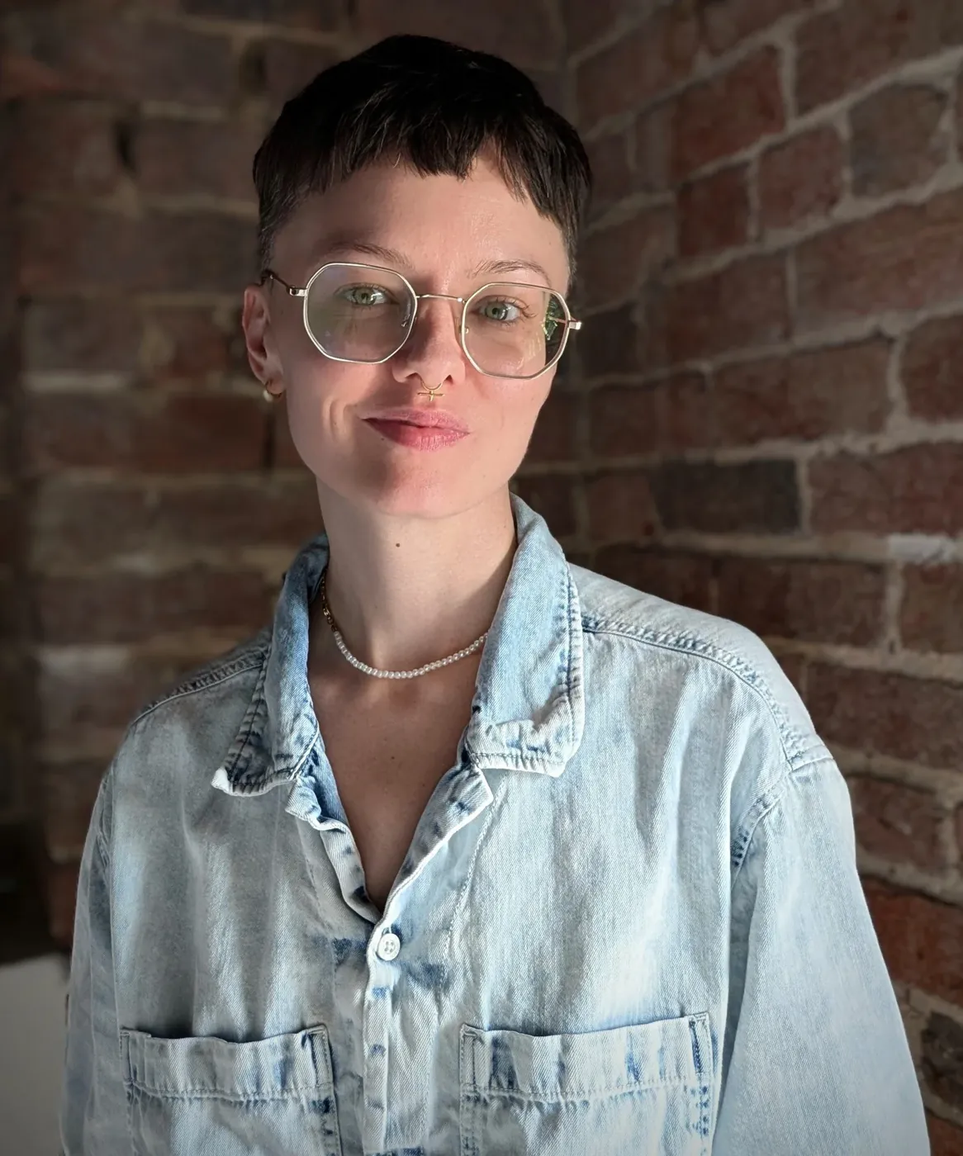
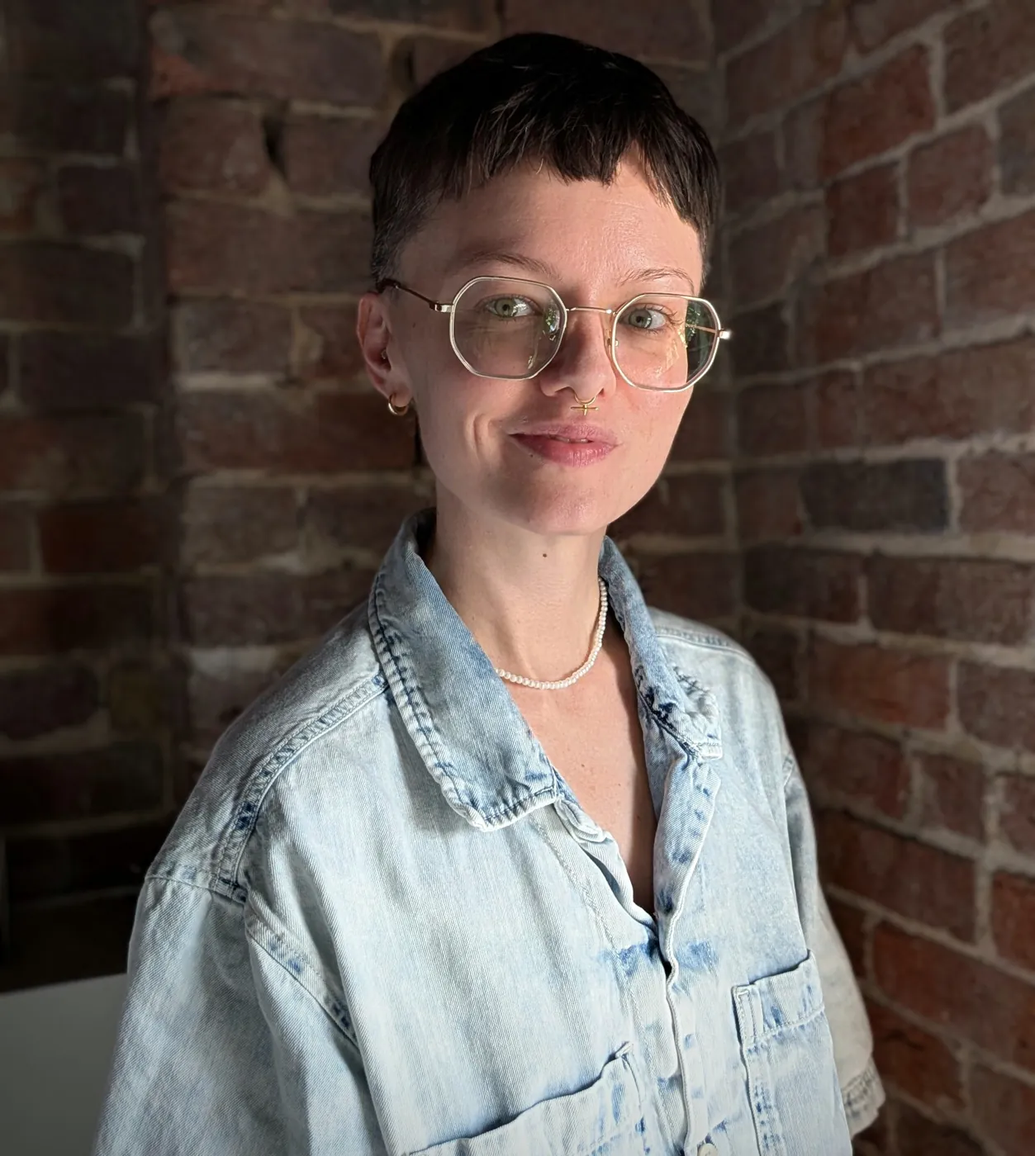
Apply copy edits from Google Doc; new home photo; updated focus list
Claude-Session: https://claude.ai/code/session_01Xtf4DpKg7VyDf4zCv5dxAb

diff --git a/site/index.html b/site/index.html
@@ -35,14 +35,14 @@
     <a class="sticker s2" href="https://calendly.com/elliot_lphelt/free-consultation" target="_blank" rel="noopener">Free<br>consult!</a>
   </div>
 </section>
-<section class="who" aria-label="Who this is for"><div class="wrap"><p class="poster"><span class="w w0">Queer</span><img class="sep" src="assets/img/ghost-mark.webp" alt=""><span class="w w1">Neurodivergent</span><img class="sep" src="assets/img/ghost-mark.webp" alt=""><span class="w w2">Non-monogamous</span><img class="sep" src="assets/img/ghost-mark.webp" alt=""><span class="w w0">Couples &amp; polycules</span><img class="sep" src="assets/img/ghost-mark.webp" alt=""><span class="w w1">No pathologizing</span><img class="sep" src="assets/img/ghost-mark.webp" alt=""><span class="w w2">Real talk</span></p></div></section>
+<section class="who" aria-label="Who this is for"><div class="wrap"><p class="poster"><span class="w w0">LGBTQ+</span><img class="sep" src="assets/img/ghost-mark.webp" alt=""><span class="w w1">Neurodivergence</span><img class="sep" src="assets/img/ghost-mark.webp" alt=""><span class="w w2">Couples</span><img class="sep" src="assets/img/ghost-mark.webp" alt=""><span class="w w0">Non-monogamy</span><img class="sep" src="assets/img/ghost-mark.webp" alt=""><span class="w w1">Life transitions</span><img class="sep" src="assets/img/ghost-mark.webp" alt=""><span class="w w2">Identity</span><img class="sep" src="assets/img/ghost-mark.webp" alt=""><span class="w w0">Immigration</span><img class="sep" src="assets/img/ghost-mark.webp" alt=""><span class="w w1">Burn out</span></p></div></section>
 
 <section class="band"><div class="wrap split">
   <div><span class="eyebrow">About Neurospace</span><h2>Don't worry, we're all weird here.</h2></div>
   <div class="prose">
-    <p>I built Neurospace Coaching because I was done watching people fall through the cracks of a system that wasn't built for them — and honestly, because I needed something different too.</p>
-    <p>My background is clinical. Five years as a therapist, a Master's degree, the whole thing. But what I do now isn't therapy, it's more direct, more collaborative, and a lot less interested in keeping you comfortable with the status quo. If conventional approaches haven't been cutting it, that's not a you problem.</p>
-    <p>What coaching with me actually looks like: someone willing to get in the mess with you and then help you figure out what to do about it. We'll look at what's keeping you stuck, get clear on what you actually want, and build toward that— whether that's who you are, how you're showing up in your relationships, or just how you want to be living your life.</p>
+    <p>I built Neurospace Coaching because I was done watching people fall through the cracks of a system that wasn't built for them, and honestly, because I needed a change too.</p>
+    <p>My background is in clinical mental health. I spent five years as a therapist in the U.S. and opened my practice right after completing my Master’s. But what I do now isn't exactly the same, it's more direct, more collaborative, and a lot less interested in keeping you comfortable with the status quo. If conventional approaches haven't been cutting it, that's not a you problem.</p>
+    <p>The vibe of a session with me? Working with someone willing to get in the mess with you and then help you figure out what to do about it. We'll look at what's keeping you stuck, get clear on what you actually want, and build toward that, whether that's who you are, how you're showing up in your relationships, or just how you want to be living your life.</p>
   </div>
 </div></section>
 
@@ -51,11 +51,10 @@
   <div class="prose">
     <span class="eyebrow">Meet Elliot</span>
     <h2>Curious, passionate, and <mark>realistic</mark></h2>
-    <p>Curious, passionate, and realistic— that's how I'd describe myself and my approach.</p>
-    <p>Curiosity is non-negotiable. Nothing changes without a willingness to ask hard questions and actually look at the answers. I've seen firsthand what happens when people lead with it: they learn, they shift, they evolve. That's what coaching is for.</p>
+    <p>I’d describe my approach as curious, passionate, and realistic with an edge of optimism.</p>
+    <p>Curiosity is non-negotiable because nothing changes without a willingness to ask hard questions and get to the answers. You learn and evolve when you lead with curiosity, about yourself, your partner, or the world. I’m here to help you help yourself to get there.</p>
     <p>I do this work because I genuinely care about emotional health and human connection. I want you to be the cool ass person you are and live accordingly. If I get to play a role in that, I'm grateful.</p>
-    <p>The realist in me means I'm not just here to talk things through, I'm here to help you turn what you're thinking and hoping into actual movement. I won't pretend this is easy or that the world isn't on fire. But I will challenge you to think and do differently, while being a space where your real feelings can land without judgment.</p>
-    <p>I believe in your right to joy, pleasure, and connection. Let's build more of that.</p>
+    <p>The realist in me means I'm not just here to talk things through, I'm here to help you turn what you're thinking and hoping into actual movement. I won't pretend this is easy or that the world isn't on fire. But I will challenge you to think and do differently, while being a space where your real feelings can land without judgment. On top of that, I do hold onto hope and optimism. I can bring that in the moments you may struggle to see it.</p>
     <p>I'm based in Berlin and work virtually with clients across Europe, North America, and beyond providing English-speaking coaching and counselling, Monday–Thursday, 2pm–9pm CET.</p>
     <a class="btn" href="contact.html">Get started</a>
   </div>
@@ -69,7 +68,7 @@
     <div class="card"><h3>Identity and self-exploration</h3><p>Who you are, who you want to be, and what's been getting in the way</p></div>
     <div class="card"><h3>Relationship coaching and counselling</h3><p>Couples, partners, and polycules navigating communication, conflict, and connection</p></div>
     <div class="card"><h3>Non-monogamy and ethical non-monogamy (ENM)</h3><p>Whether you're new to it or untangling years of patterns</p></div>
-    <div class="card"><h3>Neurodivergence</h3><p>ADHD, autism, and more. Everything that comes with navigating a world that wasn't designed for your brain</p></div>
+    <div class="card"><h3>Neurodivergence</h3><p>ADHD, autism, and more. I don’t diagnose but I help you learn more about how you interact with the world</p></div>
     <div class="card"><h3>Life transitions and burnout</h3><p>Career pivots, relocations, identity shifts, starting over</p></div>
     <div class="card"><h3>Immigrant, Expat, and cross-cultural stress</h3><p>Whether you’re in a cross-cultural relationship (I am) or navigating life as an immigrant in a new country, I see you</p></div>
   </div>
@@ -80,7 +79,7 @@
   <span class="eyebrow">My Coaching Values</span>
   <h2>Authenticity, agency, autonomy</h2>
   <div class="cards values">
-  <div class="card"><h3>Authenticity</h3><p>Okay, I know this word can sound corny or over-done but I really do believe that when we can access our most genuine self, we are able to experience life in a much richer color. And when I say authentic, I don’t mean not giving a f*ck about what other people think, I just mean being as true to yourself as possible in any given moment.</p></div>
+  <div class="card"><h3>Authenticity</h3><p>Okay, I know this word can sound corny or over-done but I really do believe that when we can access our most genuine self, we are able to experience life in a much richer color. And when I say authentic, I don’t mean not caring about what other people think, I just mean being as true to yourself as possible in any given moment.</p></div>
   <div class="card"><h3>Agency</h3><p>I use this word a lot because it’s at the core of what I believe causes suffering: a lack or stripping away of agency. When we don’t feel like active and consenting participants in our lives, we experience immense emotional and mental distress. By my logic, reclaiming agency is key to growth.</p></div>
   <div class="card"><h3>Autonomy</h3><p>Similar but different than agency, it’s imperative in my opinion, that we foster access to our own autonomy. Not in the sense of individualism, but rather the experience of being a differentiated but interdependent self that coexists with others. When we feel autonomous, we actually have more capacity for connection and a felt sense of safety.</p></div>
 </div>

diff --git a/site/about.html b/site/about.html
@@ -38,7 +38,7 @@
   <div><span class="eyebrow">Queer &amp; Neurodivergent Centered</span><h2>Here, you get to just be you</h2></div>
   <div class="prose">
     <p>A lot of people are using the word “affirming” and while it’s great to see overall, I think we’re getting lost in the sauce and the term is over-saturated.</p>
-    <p>In my coaching practice I’m all about those of us who are called freaks, weirdos, and outsiders. Although I have come to a place where I can now embrace and celebrate who I am (most days), it doesn’t mean those words don’t still carry weight.</p>
+    <p>In my coaching practice I’m all about those of us who are called freaks, weirdos, and outsiders. Although I have come to a place where I can now embrace and celebrate who I am, it doesn’t mean those words don’t still carry weight.</p>
     <p>But here, you get to release that burden and just be you. And from there, be the version of yourself you have been working towards for years. Things are tough. I am here to make it a bit easier for you so that the good days get longer and the bad days pass easier.</p>
     <a class="btn" href="contact.html">Get started</a>
   </div>
@@ -49,8 +49,8 @@
   <div class="prose">
     <span class="eyebrow">Meet Elliot</span>
     <h2>Hi y'all, I'm Elliot (they/she)</h2>
-    <p>I switched to coaching in 2025 after years as a therapist and the short version of why is that I got tired of watching a broken system harm the people it's supposed to help. Licensure requirements don't protect clients from bad therapists, restrictions make it hard to find competent providers, and clinicians are overworked, devalued, and underpaid. I could go on. I won't.</p>
-    <p>What I never got tired of was the actual work— being in the room when something shifts, watching someone's life gain more ease or clarity. That’s why I do this.</p>
+    <p>I switched to coaching in 2025 after years as a therapist and the short version of why is that I got tired of watching a broken system harm the people it's supposed to help. Licensure requirements don't protect clients from bad therapists, restrictions make it hard to find competent providers, and clinicians are overworked, devalued, and underpaid. I could go on but I won't.</p>
+    <p>What I never got tired of was the actual work— being in the room when something changes for the better, watching someone's life gain more ease or clarity. That’s why I do this.</p>
     <p>My clinical background gives me real insight into emotional patterns and human behavior, but coaching lets me work differently. The focus isn't on what's "wrong" with you, it's on who you want to become and what's getting in the way. I'm not here to treat mental health conditions. I'm here to help you figure out your shit and make moves.</p>
     <p>That looks different for everyone:</p>
     <ul class="checks">
@@ -67,10 +67,8 @@
 <section class="band lilac"><div class="wrap split">
   <div><span class="eyebrow">Training &amp; Education</span><h2>Where the work comes from</h2></div>
   <div class="timeline prose">
-    <div class="item"><h3>Neurodivergent Somatics</h3><p>A cohort live learning lab provided by Nyck Walsh, MA, LPC completed in March 2024.</p><p>Created to go deeper into how to effectively engage in anti-ableist somatic approaches with Neurodivergent clients (continued focus on Autism and ADH/ADHD). Principles of learning include: Concrete somatic tools and strategies for nervous system regulation; Practices for dismantling internalized ableism/ableism; Boundaries as a much needed form of differentiation in support of empowerment, clarity, and unmasking; Accommodations and executive function supports that are needed for the everyday and to prevent provider burn-out.</p></div>
-    <div class="item"><h3>Somatics with Queer &amp; Trans Clients</h3><p>Provided by Andrea Guitierez-Glik, LMSW. Completed Dec '20. Training in the use of somatic (body-based) modalities attuned specifically to working with queer and trans clients.</p></div>
-    <div class="item"><h3>Integrated Somatic Trauma Certificate</h3><p>Provided through Embody Lab with instruction from leaders in the field of trauma-informed somatic providers including Stacy Haines, Richard Schwartz, Euphrasia "Efu" Nyaki, Peter Levine, Arielle Schwartz, Pat Ogden, Ruby Gibson, and others. Fall 2022.</p></div>
-    <div class="item"><h3>Somatic Parts Work</h3><p>Provided by Fran Booth. Completed Sept ‘22. Integration of somatic work and internal family systems.</p></div>
+    <div class="item"><h3>Life Experience</h3><p>A great coach or therapist is made because they’ve also gone through some sh*t in life (in my strong opinion). My empathy is genuine and my ability to relate, even where we differ, is at least in part, because I have navigated my own struggles. Basically, I get it.</p></div>
+    <div class="item"><h3>Lots of Reading, Listening, and Ongoing Trainings</h3><p>I have read so many books, yes, but I also expose myself to learning from the direct experiences of others. I learn a lot by just listening. To my clients, my friends, and generally the people around me. I also engage with continuing education regularly and have completed trainings in things ranging from EMDR (a therapeutic modality) to Neurodivergent Somatics to Gender Identity exploration and all the in-between related to what I focus on most.</p></div>
     <div class="item"><h3>MA Marriage and Family Therapy</h3><p>I received my Master’s in Marriage and Family Therapy in December 2021.</p></div>
   </div>
 </div></section>

diff --git a/tools/build.py b/tools/build.py
@@ -103,6 +103,12 @@ VALUES = """<div class="cards values">
   <div class="card"><h3>Autonomy</h3><p>Similar but different than agency, it’s imperative in my opinion, that we foster access to our own autonomy. Not in the sense of individualism, but rather the experience of being a differentiated but interdependent self that coexists with others. When we feel autonomous, we actually have more capacity for connection and a felt sense of safety.</p></div>
 </div>"""
 
+VALUES_HOME = """<div class="cards values">
+  <div class="card"><h3>Authenticity</h3><p>Okay, I know this word can sound corny or over-done but I really do believe that when we can access our most genuine self, we are able to experience life in a much richer color. And when I say authentic, I don’t mean not caring about what other people think, I just mean being as true to yourself as possible in any given moment.</p></div>
+  <div class="card"><h3>Agency</h3><p>I use this word a lot because it’s at the core of what I believe causes suffering: a lack or stripping away of agency. When we don’t feel like active and consenting participants in our lives, we experience immense emotional and mental distress. By my logic, reclaiming agency is key to growth.</p></div>
+  <div class="card"><h3>Autonomy</h3><p>Similar but different than agency, it’s imperative in my opinion, that we foster access to our own autonomy. Not in the sense of individualism, but rather the experience of being a differentiated but interdependent self that coexists with others. When we feel autonomous, we actually have more capacity for connection and a felt sense of safety.</p></div>
+</div>"""
+
 
 def card(title, text):
     return f'<div class="card"><h3>{title}</h3><p>{text}</p></div>'
@@ -123,14 +129,14 @@ page("index.html",
     <a class="sticker s2" href="{BOOK}" target="_blank" rel="noopener">Free<br>consult!</a>
   </div>
 </section>
-<section class="who" aria-label="Who this is for"><div class="wrap"><p class="poster"><span class="w w0">Queer</span><img class="sep" src="assets/img/ghost-mark.webp" alt=""><span class="w w1">Neurodivergent</span><img class="sep" src="assets/img/ghost-mark.webp" alt=""><span class="w w2">Non-monogamous</span><img class="sep" src="assets/img/ghost-mark.webp" alt=""><span class="w w0">Couples &amp; polycules</span><img class="sep" src="assets/img/ghost-mark.webp" alt=""><span class="w w1">No pathologizing</span><img class="sep" src="assets/img/ghost-mark.webp" alt=""><span class="w w2">Real talk</span></p></div></section>
+<section class="who" aria-label="Who this is for"><div class="wrap"><p class="poster"><span class="w w0">LGBTQ+</span><img class="sep" src="assets/img/ghost-mark.webp" alt=""><span class="w w1">Neurodivergence</span><img class="sep" src="assets/img/ghost-mark.webp" alt=""><span class="w w2">Couples</span><img class="sep" src="assets/img/ghost-mark.webp" alt=""><span class="w w0">Non-monogamy</span><img class="sep" src="assets/img/ghost-mark.webp" alt=""><span class="w w1">Life transitions</span><img class="sep" src="assets/img/ghost-mark.webp" alt=""><span class="w w2">Identity</span><img class="sep" src="assets/img/ghost-mark.webp" alt=""><span class="w w0">Immigration</span><img class="sep" src="assets/img/ghost-mark.webp" alt=""><span class="w w1">Burn out</span></p></div></section>
 
 <section class="band"><div class="wrap split">
   <div><span class="eyebrow">About Neurospace</span><h2>Don't worry, we're all weird here.</h2></div>
   <div class="prose">
-    <p>I built Neurospace Coaching because I was done watching people fall through the cracks of a system that wasn't built for them — and honestly, because I needed something different too.</p>
-    <p>My background is clinical. Five years as a therapist, a Master's degree, the whole thing. But what I do now isn't therapy, it's more direct, more collaborative, and a lot less interested in keeping you comfortable with the status quo. If conventional approaches haven't been cutting it, that's not a you problem.</p>
-    <p>What coaching with me actually looks like: someone willing to get in the mess with you and then help you figure out what to do about it. We'll look at what's keeping you stuck, get clear on what you actually want, and build toward that— whether that's who you are, how you're showing up in your relationships, or just how you want to be living your life.</p>
+    <p>I built Neurospace Coaching because I was done watching people fall through the cracks of a system that wasn't built for them, and honestly, because I needed a change too.</p>
+    <p>My background is in clinical mental health. I spent five years as a therapist in the U.S. and opened my practice right after completing my Master’s. But what I do now isn't exactly the same, it's more direct, more collaborative, and a lot less interested in keeping you comfortable with the status quo. If conventional approaches haven't been cutting it, that's not a you problem.</p>
+    <p>The vibe of a session with me? Working with someone willing to get in the mess with you and then help you figure out what to do about it. We'll look at what's keeping you stuck, get clear on what you actually want, and build toward that, whether that's who you are, how you're showing up in your relationships, or just how you want to be living your life.</p>
   </div>
 </div></section>
 
@@ -139,11 +145,10 @@ page("index.html",
   <div class="prose">
     <span class="eyebrow">Meet Elliot</span>
     <h2>Curious, passionate, and <mark>realistic</mark></h2>
-    <p>Curious, passionate, and realistic— that's how I'd describe myself and my approach.</p>
-    <p>Curiosity is non-negotiable. Nothing changes without a willingness to ask hard questions and actually look at the answers. I've seen firsthand what happens when people lead with it: they learn, they shift, they evolve. That's what coaching is for.</p>
+    <p>I’d describe my approach as curious, passionate, and realistic with an edge of optimism.</p>
+    <p>Curiosity is non-negotiable because nothing changes without a willingness to ask hard questions and get to the answers. You learn and evolve when you lead with curiosity, about yourself, your partner, or the world. I’m here to help you help yourself to get there.</p>
     <p>I do this work because I genuinely care about emotional health and human connection. I want you to be the cool ass person you are and live accordingly. If I get to play a role in that, I'm grateful.</p>
-    <p>The realist in me means I'm not just here to talk things through, I'm here to help you turn what you're thinking and hoping into actual movement. I won't pretend this is easy or that the world isn't on fire. But I will challenge you to think and do differently, while being a space where your real feelings can land without judgment.</p>
-    <p>I believe in your right to joy, pleasure, and connection. Let's build more of that.</p>
+    <p>The realist in me means I'm not just here to talk things through, I'm here to help you turn what you're thinking and hoping into actual movement. I won't pretend this is easy or that the world isn't on fire. But I will challenge you to think and do differently, while being a space where your real feelings can land without judgment. On top of that, I do hold onto hope and optimism. I can bring that in the moments you may struggle to see it.</p>
     <p>I'm based in Berlin and work virtually with clients across Europe, North America, and beyond providing English-speaking coaching and counselling, {HOURS}.</p>
     <a class="btn" href="contact.html">Get started</a>
   </div>
@@ -157,7 +162,7 @@ page("index.html",
     {card("Identity and self-exploration", "Who you are, who you want to be, and what's been getting in the way")}
     {card("Relationship coaching and counselling", "Couples, partners, and polycules navigating communication, conflict, and connection")}
     {card("Non-monogamy and ethical non-monogamy (ENM)", "Whether you're new to it or untangling years of patterns")}
-    {card("Neurodivergence", "ADHD, autism, and more. Everything that comes with navigating a world that wasn't designed for your brain")}
+    {card("Neurodivergence", "ADHD, autism, and more. I don’t diagnose but I help you learn more about how you interact with the world")}
     {card("Life transitions and burnout", "Career pivots, relocations, identity shifts, starting over")}
     {card("Immigrant, Expat, and cross-cultural stress", "Whether you’re in a cross-cultural relationship (I am) or navigating life as an immigrant in a new country, I see you")}
   </div>
@@ -167,7 +172,7 @@ page("index.html",
 <section><div class="wrap">
   <span class="eyebrow">My Coaching Values</span>
   <h2>Authenticity, agency, autonomy</h2>
-  {VALUES}
+  {VALUES_HOME}
 </div></section>
 {CTA}
 """)
@@ -189,7 +194,7 @@ page("about.html", "About | Neurospace Coaching",
   <div><span class="eyebrow">Queer &amp; Neurodivergent Centered</span><h2>Here, you get to just be you</h2></div>
   <div class="prose">
     <p>A lot of people are using the word “affirming” and while it’s great to see overall, I think we’re getting lost in the sauce and the term is over-saturated.</p>
-    <p>In my coaching practice I’m all about those of us who are called freaks, weirdos, and outsiders. Although I have come to a place where I can now embrace and celebrate who I am (most days), it doesn’t mean those words don’t still carry weight.</p>
+    <p>In my coaching practice I’m all about those of us who are called freaks, weirdos, and outsiders. Although I have come to a place where I can now embrace and celebrate who I am, it doesn’t mean those words don’t still carry weight.</p>
     <p>But here, you get to release that burden and just be you. And from there, be the version of yourself you have been working towards for years. Things are tough. I am here to make it a bit easier for you so that the good days get longer and the bad days pass easier.</p>
     <a class="btn" href="contact.html">Get started</a>
   </div>
@@ -200,8 +205,8 @@ page("about.html", "About | Neurospace Coaching",
   <div class="prose">
     <span class="eyebrow">Meet Elliot</span>
     <h2>Hi y'all, I'm Elliot (they/she)</h2>
-    <p>I switched to coaching in 2025 after years as a therapist and the short version of why is that I got tired of watching a broken system harm the people it's supposed to help. Licensure requirements don't protect clients from bad therapists, restrictions make it hard to find competent providers, and clinicians are overworked, devalued, and underpaid. I could go on. I won't.</p>
-    <p>What I never got tired of was the actual work— being in the room when something shifts, watching someone's life gain more ease or clarity. That’s why I do this.</p>
+    <p>I switched to coaching in 2025 after years as a therapist and the short version of why is that I got tired of watching a broken system harm the people it's supposed to help. Licensure requirements don't protect clients from bad therapists, restrictions make it hard to find competent providers, and clinicians are overworked, devalued, and underpaid. I could go on but I won't.</p>
+    <p>What I never got tired of was the actual work— being in the room when something changes for the better, watching someone's life gain more ease or clarity. That’s why I do this.</p>
     <p>My clinical background gives me real insight into emotional patterns and human behavior, but coaching lets me work differently. The focus isn't on what's "wrong" with you, it's on who you want to become and what's getting in the way. I'm not here to treat mental health conditions. I'm here to help you figure out your shit and make moves.</p>
     <p>That looks different for everyone:</p>
     <ul class="checks">
@@ -218,10 +223,8 @@ page("about.html", "About | Neurospace Coaching",
 <section class="band lilac"><div class="wrap split">
   <div><span class="eyebrow">Training &amp; Education</span><h2>Where the work comes from</h2></div>
   <div class="timeline prose">
-    <div class="item"><h3>Neurodivergent Somatics</h3><p>A cohort live learning lab provided by Nyck Walsh, MA, LPC completed in March 2024.</p><p>Created to go deeper into how to effectively engage in anti-ableist somatic approaches with Neurodivergent clients (continued focus on Autism and ADH/ADHD). Principles of learning include: Concrete somatic tools and strategies for nervous system regulation; Practices for dismantling internalized ableism/ableism; Boundaries as a much needed form of differentiation in support of empowerment, clarity, and unmasking; Accommodations and executive function supports that are needed for the everyday and to prevent provider burn-out.</p></div>
-    <div class="item"><h3>Somatics with Queer &amp; Trans Clients</h3><p>Provided by Andrea Guitierez-Glik, LMSW. Completed Dec '20. Training in the use of somatic (body-based) modalities attuned specifically to working with queer and trans clients.</p></div>
-    <div class="item"><h3>Integrated Somatic Trauma Certificate</h3><p>Provided through Embody Lab with instruction from leaders in the field of trauma-informed somatic providers including Stacy Haines, Richard Schwartz, Euphrasia "Efu" Nyaki, Peter Levine, Arielle Schwartz, Pat Ogden, Ruby Gibson, and others. Fall 2022.</p></div>
-    <div class="item"><h3>Somatic Parts Work</h3><p>Provided by Fran Booth. Completed Sept ‘22. Integration of somatic work and internal family systems.</p></div>
+    <div class="item"><h3>Life Experience</h3><p>A great coach or therapist is made because they’ve also gone through some sh*t in life (in my strong opinion). My empathy is genuine and my ability to relate, even where we differ, is at least in part, because I have navigated my own struggles. Basically, I get it.</p></div>
+    <div class="item"><h3>Lots of Reading, Listening, and Ongoing Trainings</h3><p>I have read so many books, yes, but I also expose myself to learning from the direct experiences of others. I learn a lot by just listening. To my clients, my friends, and generally the people around me. I also engage with continuing education regularly and have completed trainings in things ranging from EMDR (a therapeutic modality) to Neurodivergent Somatics to Gender Identity exploration and all the in-between related to what I focus on most.</p></div>
     <div class="item"><h3>MA Marriage and Family Therapy</h3><p>I received my Master’s in Marriage and Family Therapy in December 2021.</p></div>
   </div>
 </div></section>
